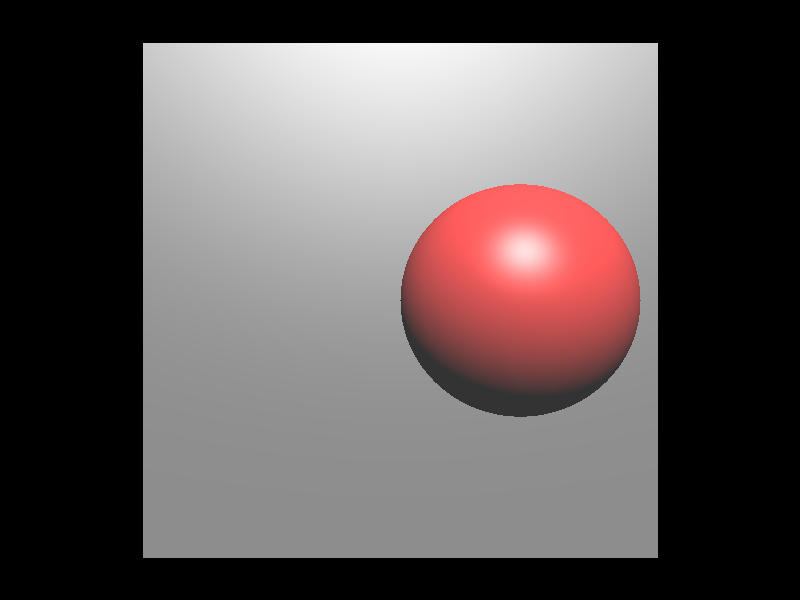
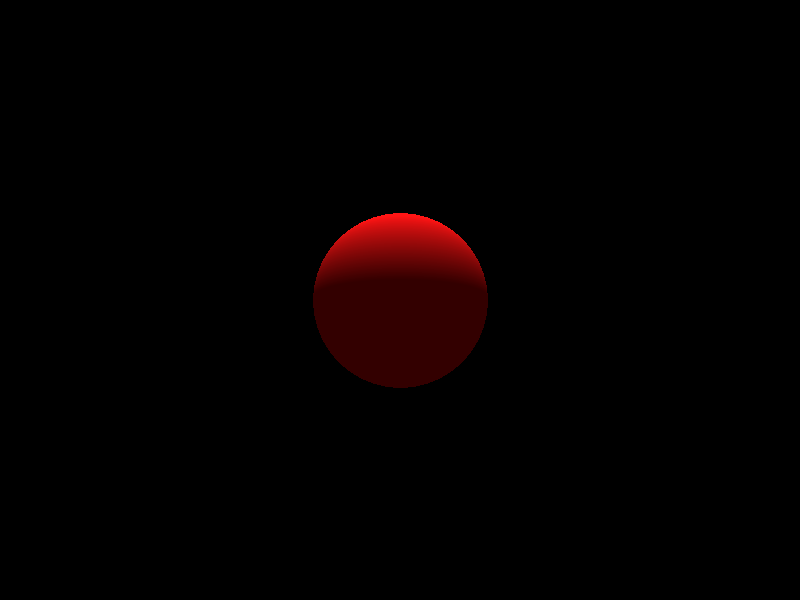
diffuse 계산 방법이 틀려서 디버깅중

diff --git a/src/raytracer.rs b/src/raytracer.rs
@@ -21,12 +21,12 @@ pub struct Raytracer {
 
 impl Raytracer {
     pub fn new(width: i32, height: i32) -> Self {
-        let mut sphere1 = Sphere::new(cgmath::vec3(0.5, 0.0, 0.5), 0.5);
-        sphere1.amb = cgmath::vec3(0.2, 0.2, 0.2);
-        sphere1.diff = cgmath::vec3(1.0, 0.2, 0.2);
-        sphere1.spec = cgmath::vec3(0.5, 0.5, 0.5);
-        sphere1.alpha = 10.0;
-        sphere1.ks = 0.8;
+        let mut sphere1 = Sphere::new(cgmath::vec3(0.0, 0.0, 0.6), 0.4);
+        sphere1.amb = cgmath::vec3(0.2, 0.0, 0.0);
+        sphere1.diff = cgmath::vec3(1.0, 0.1, 0.1);
+        sphere1.spec = cgmath::vec3(1.5, 1.5, 1.5);
+        sphere1.alpha = 50.0;
+        // sphere1.ks = 0.8;
 
         // let mut sphere2 = Sphere::new(cgmath::vec3(0.0, 0.0, 1.0), 0.5);
         // sphere2.amb = cgmath::vec3(0.2, 0.2, 0.2);
@@ -44,24 +44,24 @@ impl Raytracer {
 
         // triangle 2개로 rectangle 생성
         let mut triangle1 = Triangle::new(
-            cgmath::vec3(-2.0, -2.0, 2.0),
-            cgmath::vec3(-2.0, 2.0, 2.0),
-            cgmath::vec3(2.0, 2.0, 2.0)
+            cgmath::vec3(-2.0, -1.0, 0.0),
+            cgmath::vec3(-2.0, -1.0, 4.0),
+            cgmath::vec3(2.0, -1.0, 4.0),
         );
         triangle1.amb = cgmath::vec3(0.2, 0.2, 0.2);
-        triangle1.diff = cgmath::vec3(0.5, 0.5, 0.5);
-        triangle1.spec = cgmath::vec3(0.5, 0.5, 0.5);
-        triangle1.alpha = 5.0;
+        triangle1.diff = cgmath::vec3(0.8, 0.8, 0.8);
+        triangle1.spec = cgmath::vec3(1.0, 1.0, 1.0);
+        triangle1.alpha = 50.0;
 
         let mut triangle2 = Triangle::new(
-            cgmath::vec3(-2.0, -2.0, 2.0),
-            cgmath::vec3(2.0, 2.0, 2.0),
-            cgmath::vec3(2.0, -2.0, 2.0)
+            cgmath::vec3(-2.0, -1.0, 0.0),
+            cgmath::vec3(2.0, -1.0, 4.0),
+            cgmath::vec3(2.0, -1.0, 0.0),
         );
         triangle2.amb = cgmath::vec3(0.2, 0.2, 0.2);
-        triangle2.diff = cgmath::vec3(0.5, 0.5, 0.5);
-        triangle2.spec = cgmath::vec3(0.5, 0.5, 0.5);
-        triangle2.alpha = 5.0;
+        triangle2.diff = cgmath::vec3(0.8, 0.8, 0.8);
+        triangle2.spec = cgmath::vec3(1.0, 1.0, 1.0);
+        triangle2.alpha = 50.0;
 
         let mut objects: Vec<Box<dyn Hittable>> = Vec::new();
 
@@ -69,11 +69,11 @@ impl Raytracer {
         // objects.push(sphere2);
         // objects.push(sphere1);
         objects.push(Box::new(sphere1));
-        objects.push(Box::new(triangle1));
-        objects.push(Box::new(triangle2));
+        // objects.push(Box::new(triangle1));
+        // objects.push(Box::new(triangle2));
 
         // located back of screen
-        let light = Light { pos: cgmath::Vector3::new(0.0, 1.0, -1.0) };
+        let light = Light { pos: cgmath::vec3(0.0, 1.0, 0.2) };
 
         Raytracer { width, height, light, objects }
     }
@@ -94,7 +94,6 @@ impl Raytracer {
 
                 closest_hit.d = hit.d;
                 closest_hit.normal = hit.normal;
-
                 closest_hit.object = Some(l.as_object());
             }
         }
@@ -105,16 +104,47 @@ impl Raytracer {
     pub fn tracy_ray(&self, ray: &Ray) -> cgmath::Vector3<f32> {
         let hit = self.find_closest_collision(ray);
 
-        if hit.d < 0.0 {
-            cgmath::vec3(0.0, 0.0, 0.0)
-        } else {
+        let mut color = cgmath::vec3(0.0, 0.0, 0.0);
 
+        if hit.d >= 0.0 {
             if let Some(ref object) = hit.object {
-                self.calculate_phong_model_color(&hit, &ray, &object)
-            } else {
-                cgmath::vec3(0.0, 0.0, 0.0)
+
+                println!("{:?} {:}", hit.normal, hit.normal.magnitude());
+
+                color = self.calculate_phong_model_color(&hit, &ray, &object);
+
+                // color = cgmath::vec3(1.0, 0.0, 0.0);
+                //
+                // let dir_light = (self.light.pos - hit.point).normalize();
+                //
+                // let shadow_ray = Ray { start: hit.point + (dir_light * 1e-4f32), dir: dir_light };
+                //
+                // let shadow_hit = self.find_closest_collision(&shadow_ray);
+                //
+                // // 라이트가 그림자를 드리울 물체보다 가까이 있는 경우에도 (라이트가 가려지지 않는 경우에도) 그림자를 그리게 됩니다.
+                // // 아래처럼 코드를 수정해주시면 조금 더 물리적으로 정확한 그림자를 표시할 수 있을 것 같습니다.
+                // // FindClosestCollision(shadowRay).d > glm::length(light.pos - hit.point)
+                // let light_hit = self.light.pos - hit.point;
+                //
+                // // 충돌이 없을 경우, shadow ray 가 빛을 향한다는 의미이기 때문에 기존처럼 color 계산
+                // if shadow_hit.d < 0.0 {
+                //     color = self.calculate_phong_model_color(&hit, &ray, &object);
+                // }
             }
         }
+
+        color
+
+        // if hit.d < 0.0 {
+        //     cgmath::vec3(0.0, 0.0, 0.0)
+        // } else {
+        //
+        //     if let Some(ref object) = hit.object {
+        //         self.calculate_phong_model_color(&hit, &ray, &object)
+        //     } else {
+        //         cgmath::vec3(0.0, 0.0, 0.0)
+        //     }
+        // }
     }
 
     pub fn render(&self, imgbuf: &mut ImageBuffer<image::Rgb<u8>, Vec<u8>>) {
@@ -133,7 +163,7 @@ impl Raytracer {
                 // let ray_dir = cgmath::vec3(0.0, 0.0, 1.0);
                 let ray_dir = (pixel_pos_world - eye_pos).normalize();
 
-                    // cgmath::vec3(0.0, 0.0, 1.0);
+                // cgmath::vec3(0.0, 0.0, 1.0);
 
                 let pixel_ray = Ray { dir: ray_dir, start: pixel_pos_world };
                 let color = self.tracy_ray(&pixel_ray);
@@ -172,7 +202,7 @@ impl Raytracer {
         &self,
         hit: &Hit,
         ray: &Ray,
-        object: &Object
+        object: &Object,
     ) -> cgmath::Vector3<f32> {
         let mut color = cgmath::vec3(0.0, 0.0, 0.0);
 
@@ -180,7 +210,7 @@ impl Raytracer {
         let l = (self.light.pos - hit.point).normalize();
         let n = hit.normal.normalize();
 
-        let diff = cgmath::dot(n, l).max(0.0);
+        let diff = cgmath::dot(hit.normal, l).max(0.0);
 
         // specular
         let r = 2.0 * cgmath::dot(n, l) * n - l;
@@ -192,12 +222,31 @@ impl Raytracer {
         match object {
             Object::Sphere(s) => {
                 let specular_pow = specular.powf(s.alpha);
-                color = s.amb + (s.diff * diff) + (s.spec * specular_pow);
-            },
+                // color = s.amb + (s.diff * diff) + (s.spec * specular_pow);
+                color = s.amb + (s.diff * diff)
+            }
             Object::Triangle(t) => {
+                // println!("{:?}, {}", t.diff, diff);
                 let specular_pow = specular.powf(t.alpha);
-                color = t.amb + (t.diff * diff) + (t.spec * specular_pow);
-            },
+                // color = t.amb + (t.diff * diff) + (t.spec * specular_pow);
+                color = t.amb + (t.diff * diff)
+            }
+            _ => {}
+        }
+
+        color
+    }
+
+    fn get_ambient_color(&self, object: &Object) -> cgmath::Vector3<f32> {
+        let mut color = cgmath::vec3(0.0, 0.0, 0.0);
+
+        match object {
+            Object::Sphere(s) => {
+                color = s.amb;
+            }
+            Object::Triangle(t) => {
+                color = t.amb;
+            }
             _ => {}
         }
 

diff --git a/src/object.rs b/src/object.rs
@@ -1,0 +1,23 @@
+// use crate::sphere::Sphere;
+// use crate::triangle::Triangle;
+//
+// pub struct Material {
+//     pub amb: cgmath::Vector3<f32>,
+//     pub diff: cgmath::Vector3<f32>,
+//     pub spec: cgmath::Vector3₩<f32>,
+//     pub alpha: f32,
+// }
+//
+// pub enum Object {
+//     Triangle(Triangle),
+//     Sphere(Sphere),
+// }
+//
+// impl Object {
+//     fn material(&self) -> Material {
+//         match self {
+//             Object::Triangle(t) => Material { amb: *t.amb, diff: *t.diff, spec: *t.spec, alpha: *t.alpha },
+//             Object::Sphere(t) => Material { amb: *t.amb, diff: *t.diff, spec: *t.spec, alpha: *t.alpha }
+//         }
+//     }
+// }
